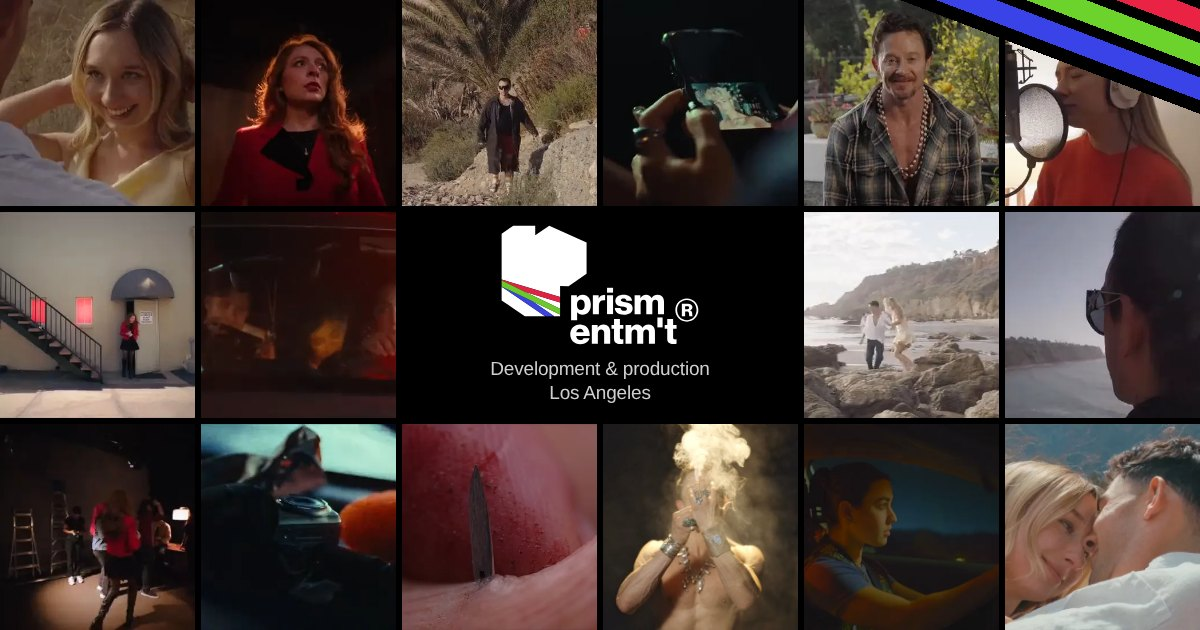
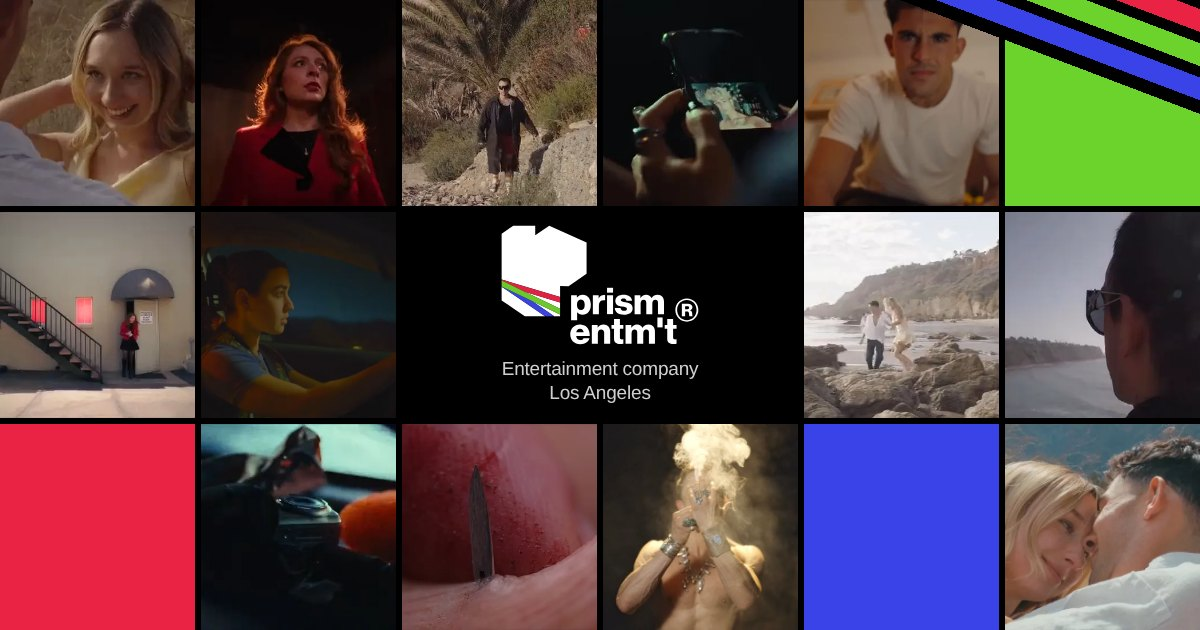
Share image: 'Entertainment company', RGB color tiles, no John Wolf face
Claude-Session: https://claude.ai/code/session_01PBdJsDFBfUDbvMUbZFcDx1

diff --git a/og-src/og.html b/og-src/og.html
@@ -5,9 +5,10 @@ html,body{margin:0;background:#000;}
 .og{position:relative;width:1200px;height:630px;background:#000;overflow:hidden;}
 .grid{position:absolute;inset:0;display:grid;grid-template-columns:repeat(6,1fr);grid-template-rows:repeat(3,1fr);gap:6px;}
 .t{background:#161616 center/cover no-repeat;filter:saturate(1.05);}
+.c{}
 .logo{grid-column:span 2;background:#000;display:flex;flex-direction:column;align-items:center;justify-content:center;gap:12px;}
 .logo img{height:120px;}
 .logo p{margin:0;font:500 19px/1.25 "Inter Tight",Helvetica,Arial,sans-serif;color:#cfcfcf;text-align:center;letter-spacing:-.01em;}
 .light{position:absolute;right:0;top:0;width:300px;height:114px;
  background:linear-gradient(to bottom left,#000 0 4%,#ea2244 4% 14%,#000 14% 19%,#6bd32b 19% 29%,#000 29% 34%,#3a43e8 34% 44%,#000 44% 50%,transparent 50%);}
-</style></head><body><div class="og"><div class="grid"><div class="t" style="background-image:url(../assets/mosaic/wfam-clip-7.webp)"></div><div class="t" style="background-image:url(../assets/mosaic/bt-clip-6.webp)"></div><div class="t" style="background-image:url(../assets/mosaic/ib-clip-3.webp)"></div><div class="t" style="background-image:url(../assets/mosaic/wlkrs-clip-3.webp)"></div><div class="t" style="background-image:url(../assets/mosaic/jw-clip-1.webp)"></div><div class="t" style="background-image:url(../assets/mosaic/wfam-clip-2.webp)"></div><div class="t" style="background-image:url(../assets/mosaic/bt-clip-4.webp)"></div><div class="t" style="background-image:url(../assets/mosaic/wlkrs-clip-6.webp)"></div><div class="logo"><img src="../assets/brand/prism-lockup-on-dark.svg" alt=""><p>Development &amp; production<br>Los Angeles</p></div><div class="t" style="background-image:url(../assets/mosaic/wfam-clip-6.webp)"></div><div class="t" style="background-image:url(../assets/mosaic/ib-clip-2.webp)"></div><div class="t" style="background-image:url(../assets/mosaic/bt-clip-2.webp)"></div><div class="t" style="background-image:url(../assets/mosaic/wlkrs-clip-1.webp)"></div><div class="t" style="background-image:url(../assets/stills/skin-ripomatic.webp)"></div><div class="t" style="background-image:url(../assets/stills/jw-dad-smoke-800.webp)"></div><div class="t" style="background-image:url(../assets/stills/walkers-driver-800.webp)"></div><div class="t" style="background-image:url(../assets/stills/wfam-field-800.webp)"></div></div><span class="light"></span></div></body></html>
+</style></head><body><div class="og"><div class="grid"><div class="t" style="background-image:url(../assets/mosaic/wfam-clip-7.webp)"></div><div class="t" style="background-image:url(../assets/mosaic/bt-clip-6.webp)"></div><div class="t" style="background-image:url(../assets/mosaic/ib-clip-3.webp)"></div><div class="t" style="background-image:url(../assets/mosaic/wlkrs-clip-3.webp)"></div><div class="t" style="background-image:url(wfam-10.webp)"></div><div class="c" style="background:#6bd32b"></div><div class="t" style="background-image:url(../assets/mosaic/bt-clip-4.webp)"></div><div class="t" style="background-image:url(../assets/stills/walkers-driver-800.webp)"></div><div class="logo"><img src="../assets/brand/prism-lockup-on-dark.svg" alt=""><p>Entertainment company<br>Los Angeles</p></div><div class="t" style="background-image:url(../assets/mosaic/wfam-clip-6.webp)"></div><div class="t" style="background-image:url(../assets/mosaic/ib-clip-2.webp)"></div><div class="c" style="background:#ea2244"></div><div class="t" style="background-image:url(../assets/mosaic/wlkrs-clip-1.webp)"></div><div class="t" style="background-image:url(../assets/stills/skin-ripomatic.webp)"></div><div class="t" style="background-image:url(../assets/stills/jw-dad-smoke-800.webp)"></div><div class="c" style="background:#3a43e8"></div><div class="t" style="background-image:url(../assets/stills/wfam-field-800.webp)"></div></div><span class="light"></span></div></body></html>

diff --git a/index.html b/index.html
@@ -13,15 +13,15 @@
 <meta property="og:title" content="Prism Entertainment | LA Development &amp; Production Company">
 <meta property="og:description" content="Los Angeles development and production company for brands, artists and filmmakers: branded content, commercials, music videos and film development.">
 <meta property="og:url" content="https://prismentmt.com/">
-<meta property="og:image" content="https://prismentmt.com/assets/brand/og-image.jpg">
+<meta property="og:image" content="https://prismentmt.com/assets/brand/og-image.jpg?v=2">
 <meta property="og:image:width" content="1200">
 <meta property="og:image:height" content="630">
 <meta property="og:image:alt" content="Prism Entertainment logo among frames from its music videos, branded content and films">
 <meta name="twitter:card" content="summary_large_image">
 <meta name="twitter:title" content="Prism Entertainment | LA Development &amp; Production Company">
 <meta name="twitter:description" content="Los Angeles development and production company for brands, artists and filmmakers: branded content, commercials, music videos and film development.">
-<meta name="twitter:image" content="https://prismentmt.com/assets/brand/og-image.jpg">
-<script type="application/ld+json">{"@context":"https://schema.org","@graph":[{"@type":"Organization","@id":"https://prismentmt.com/#org","name":"Prism Entertainment","alternateName":"Prism Entertainment LLC","url":"https://prismentmt.com/","logo":"https://prismentmt.com/assets/brand/prism-badge.svg","image":"https://prismentmt.com/assets/brand/og-image.jpg","email":"teddy@prismentmt.com","description":"Los Angeles development and production company for brands, artists and filmmakers.","address":{"@type":"PostalAddress","addressLocality":"Los Angeles","addressRegion":"CA","addressCountry":"US"},"areaServed":"Los Angeles","founder":{"@type":"Person","name":"Teddy Hawke","jobTitle":"Founder and independent film producer"},"sameAs":["https://www.instagram.com/prismentmt","https://www.linkedin.com/company/prism-entertainment-filmtv"]},{"@type":"WebSite","@id":"https://prismentmt.com/#site","url":"https://prismentmt.com/","name":"Prism Entertainment","publisher":{"@id":"https://prismentmt.com/#org"}}]}</script>
+<meta name="twitter:image" content="https://prismentmt.com/assets/brand/og-image.jpg?v=2">
+<script type="application/ld+json">{"@context":"https://schema.org","@graph":[{"@type":"Organization","@id":"https://prismentmt.com/#org","name":"Prism Entertainment","alternateName":"Prism Entertainment LLC","url":"https://prismentmt.com/","logo":"https://prismentmt.com/assets/brand/prism-badge.svg","image":"https://prismentmt.com/assets/brand/og-image.jpg?v=2","email":"teddy@prismentmt.com","description":"Los Angeles development and production company for brands, artists and filmmakers.","address":{"@type":"PostalAddress","addressLocality":"Los Angeles","addressRegion":"CA","addressCountry":"US"},"areaServed":"Los Angeles","founder":{"@type":"Person","name":"Teddy Hawke","jobTitle":"Founder and independent film producer"},"sameAs":["https://www.instagram.com/prismentmt","https://www.linkedin.com/company/prism-entertainment-filmtv"]},{"@type":"WebSite","@id":"https://prismentmt.com/#site","url":"https://prismentmt.com/","name":"Prism Entertainment","publisher":{"@id":"https://prismentmt.com/#org"}}]}</script>
 <link rel="preconnect" href="https://fonts.googleapis.com">
 <link rel="preconnect" href="https://fonts.gstatic.com" crossorigin>
 <link href="https://fonts.googleapis.com/css2?family=Inter+Tight:wght@400;500;600;700&display=swap" rel="stylesheet">

diff --git a/about.html b/about.html
@@ -13,14 +13,14 @@
 <meta property="og:title" content="About Prism Entertainment | LA Development &amp; Production">
 <meta property="og:description" content="Prism Entertainment is a Los Angeles development and production company founded by independent film producer Teddy Hawke, built on resourceful producing.">
 <meta property="og:url" content="https://prismentmt.com/about.html">
-<meta property="og:image" content="https://prismentmt.com/assets/brand/og-image.jpg">
+<meta property="og:image" content="https://prismentmt.com/assets/brand/og-image.jpg?v=2">
 <meta property="og:image:width" content="1200">
 <meta property="og:image:height" content="630">
 <meta property="og:image:alt" content="Prism Entertainment logo among frames from its music videos, branded content and films">
 <meta name="twitter:card" content="summary_large_image">
 <meta name="twitter:title" content="About Prism Entertainment | LA Development &amp; Production">
 <meta name="twitter:description" content="Prism Entertainment is a Los Angeles development and production company founded by independent film producer Teddy Hawke, built on resourceful producing.">
-<meta name="twitter:image" content="https://prismentmt.com/assets/brand/og-image.jpg">
+<meta name="twitter:image" content="https://prismentmt.com/assets/brand/og-image.jpg?v=2">
 <link rel="preconnect" href="https://fonts.googleapis.com">
 <link rel="preconnect" href="https://fonts.gstatic.com" crossorigin>
 <link href="https://fonts.googleapis.com/css2?family=Inter+Tight:wght@400;500;600;700&display=swap" rel="stylesheet">

diff --git a/develop.html b/develop.html
@@ -13,14 +13,14 @@
 <meta property="og:title" content="Film &amp; TV Development: Pitch Decks, Sizzle Reels | Prism">
 <meta property="og:description" content="Hire Prism for pitch decks, ripomatics, sizzle reels, budgets and script consultation, or partner with us to produce your contained film or series.">
 <meta property="og:url" content="https://prismentmt.com/develop.html">
-<meta property="og:image" content="https://prismentmt.com/assets/brand/og-image.jpg">
+<meta property="og:image" content="https://prismentmt.com/assets/brand/og-image.jpg?v=2">
 <meta property="og:image:width" content="1200">
 <meta property="og:image:height" content="630">
 <meta property="og:image:alt" content="Prism Entertainment logo among frames from its music videos, branded content and films">
 <meta name="twitter:card" content="summary_large_image">
 <meta name="twitter:title" content="Film &amp; TV Development: Pitch Decks, Sizzle Reels | Prism">
 <meta name="twitter:description" content="Hire Prism for pitch decks, ripomatics, sizzle reels, budgets and script consultation, or partner with us to produce your contained film or series.">
-<meta name="twitter:image" content="https://prismentmt.com/assets/brand/og-image.jpg">
+<meta name="twitter:image" content="https://prismentmt.com/assets/brand/og-image.jpg?v=2">
 <link rel="preconnect" href="https://fonts.googleapis.com">
 <link rel="preconnect" href="https://fonts.gstatic.com" crossorigin>
 <link href="https://fonts.googleapis.com/css2?family=Inter+Tight:wght@400;500;600;700&display=swap" rel="stylesheet">

diff --git a/work.html b/work.html
@@ -13,14 +13,14 @@
 <meta property="og:title" content="Work: Music Videos, Branded Content &amp; Films | Prism">
 <meta property="og:description" content="Music videos, branded content, vertical promo campaigns and narrative films from Prism Entertainment, a Los Angeles development and production company.">
 <meta property="og:url" content="https://prismentmt.com/work.html">
-<meta property="og:image" content="https://prismentmt.com/assets/brand/og-image.jpg">
+<meta property="og:image" content="https://prismentmt.com/assets/brand/og-image.jpg?v=2">
 <meta property="og:image:width" content="1200">
 <meta property="og:image:height" content="630">
 <meta property="og:image:alt" content="Prism Entertainment logo among frames from its music videos, branded content and films">
 <meta name="twitter:card" content="summary_large_image">
 <meta name="twitter:title" content="Work: Music Videos, Branded Content &amp; Films | Prism">
 <meta name="twitter:description" content="Music videos, branded content, vertical promo campaigns and narrative films from Prism Entertainment, a Los Angeles development and production company.">
-<meta name="twitter:image" content="https://prismentmt.com/assets/brand/og-image.jpg">
+<meta name="twitter:image" content="https://prismentmt.com/assets/brand/og-image.jpg?v=2">
 <link rel="preconnect" href="https://fonts.googleapis.com">
 <link rel="preconnect" href="https://fonts.gstatic.com" crossorigin>
 <link href="https://fonts.googleapis.com/css2?family=Inter+Tight:wght@400;500;600;700&display=swap" rel="stylesheet">

diff --git a/produce.html b/produce.html
@@ -13,14 +13,14 @@
 <meta property="og:title" content="Branded Content &amp; Commercial Production in LA | Prism">
 <meta property="og:description" content="Custom branded content, commercials, branded vertical series, music videos and production services in Los Angeles. On budget, on time, on screen.">
 <meta property="og:url" content="https://prismentmt.com/produce.html">
-<meta property="og:image" content="https://prismentmt.com/assets/brand/og-image.jpg">
+<meta property="og:image" content="https://prismentmt.com/assets/brand/og-image.jpg?v=2">
 <meta property="og:image:width" content="1200">
 <meta property="og:image:height" content="630">
 <meta property="og:image:alt" content="Prism Entertainment logo among frames from its music videos, branded content and films">
 <meta name="twitter:card" content="summary_large_image">
 <meta name="twitter:title" content="Branded Content &amp; Commercial Production in LA | Prism">
 <meta name="twitter:description" content="Custom branded content, commercials, branded vertical series, music videos and production services in Los Angeles. On budget, on time, on screen.">
-<meta name="twitter:image" content="https://prismentmt.com/assets/brand/og-image.jpg">
+<meta name="twitter:image" content="https://prismentmt.com/assets/brand/og-image.jpg?v=2">
 <link rel="preconnect" href="https://fonts.googleapis.com">
 <link rel="preconnect" href="https://fonts.gstatic.com" crossorigin>
 <link href="https://fonts.googleapis.com/css2?family=Inter+Tight:wght@400;500;600;700&display=swap" rel="stylesheet">

diff --git a/start.html b/start.html
@@ -13,14 +13,14 @@
 <meta property="og:title" content="Start a Project | Prism Entertainment, Los Angeles">
 <meta property="og:description" content="Tell us about your branded content, commercial, music video or film project, with your budget and timing, and we&#8217;ll reply within two business days.">
 <meta property="og:url" content="https://prismentmt.com/start.html">
-<meta property="og:image" content="https://prismentmt.com/assets/brand/og-image.jpg">
+<meta property="og:image" content="https://prismentmt.com/assets/brand/og-image.jpg?v=2">
 <meta property="og:image:width" content="1200">
 <meta property="og:image:height" content="630">
 <meta property="og:image:alt" content="Prism Entertainment logo among frames from its music videos, branded content and films">
 <meta name="twitter:card" content="summary_large_image">
 <meta name="twitter:title" content="Start a Project | Prism Entertainment, Los Angeles">
 <meta name="twitter:description" content="Tell us about your branded content, commercial, music video or film project, with your budget and timing, and we&#8217;ll reply within two business days.">
-<meta name="twitter:image" content="https://prismentmt.com/assets/brand/og-image.jpg">
+<meta name="twitter:image" content="https://prismentmt.com/assets/brand/og-image.jpg?v=2">
 <link rel="preconnect" href="https://fonts.googleapis.com">
 <link rel="preconnect" href="https://fonts.gstatic.com" crossorigin>
 <link href="https://fonts.googleapis.com/css2?family=Inter+Tight:wght@400;500;600;700&display=swap" rel="stylesheet">

diff --git a/privacy.html b/privacy.html
@@ -13,14 +13,14 @@
 <meta property="og:title" content="Privacy Policy | Prism Entertainment">
 <meta property="og:description" content="How Prism Entertainment collects, uses and protects information submitted through prismentmt.com.">
 <meta property="og:url" content="https://prismentmt.com/privacy.html">
-<meta property="og:image" content="https://prismentmt.com/assets/brand/og-image.jpg">
+<meta property="og:image" content="https://prismentmt.com/assets/brand/og-image.jpg?v=2">
 <meta property="og:image:width" content="1200">
 <meta property="og:image:height" content="630">
 <meta property="og:image:alt" content="Prism Entertainment logo among frames from its music videos, branded content and films">
 <meta name="twitter:card" content="summary_large_image">
 <meta name="twitter:title" content="Privacy Policy | Prism Entertainment">
 <meta name="twitter:description" content="How Prism Entertainment collects, uses and protects information submitted through prismentmt.com.">
-<meta name="twitter:image" content="https://prismentmt.com/assets/brand/og-image.jpg">
+<meta name="twitter:image" content="https://prismentmt.com/assets/brand/og-image.jpg?v=2">
 <link rel="preconnect" href="https://fonts.googleapis.com">
 <link rel="preconnect" href="https://fonts.gstatic.com" crossorigin>
 <link href="https://fonts.googleapis.com/css2?family=Inter+Tight:wght@400;500;600;700&display=swap" rel="stylesheet">

diff --git a/404.html b/404.html
@@ -12,14 +12,14 @@
 <meta property="og:locale" content="en_US">
 <meta property="og:title" content="Page Not Found | Prism Entertainment">
 <meta property="og:description" content="This page doesn&#8217;t exist. Visit Prism Entertainment&#8217;s homepage or see the work.">
-<meta property="og:image" content="https://prismentmt.com/assets/brand/og-image.jpg">
+<meta property="og:image" content="https://prismentmt.com/assets/brand/og-image.jpg?v=2">
 <meta property="og:image:width" content="1200">
 <meta property="og:image:height" content="630">
 <meta property="og:image:alt" content="Prism Entertainment logo among frames from its music videos, branded content and films">
 <meta name="twitter:card" content="summary_large_image">
 <meta name="twitter:title" content="Page Not Found | Prism Entertainment">
 <meta name="twitter:description" content="This page doesn&#8217;t exist. Visit Prism Entertainment&#8217;s homepage or see the work.">
-<meta name="twitter:image" content="https://prismentmt.com/assets/brand/og-image.jpg">
+<meta name="twitter:image" content="https://prismentmt.com/assets/brand/og-image.jpg?v=2">
 <link rel="preconnect" href="https://fonts.googleapis.com">
 <link rel="preconnect" href="https://fonts.gstatic.com" crossorigin>
 <link href="https://fonts.googleapis.com/css2?family=Inter+Tight:wght@400;500;600;700&display=swap" rel="stylesheet">
